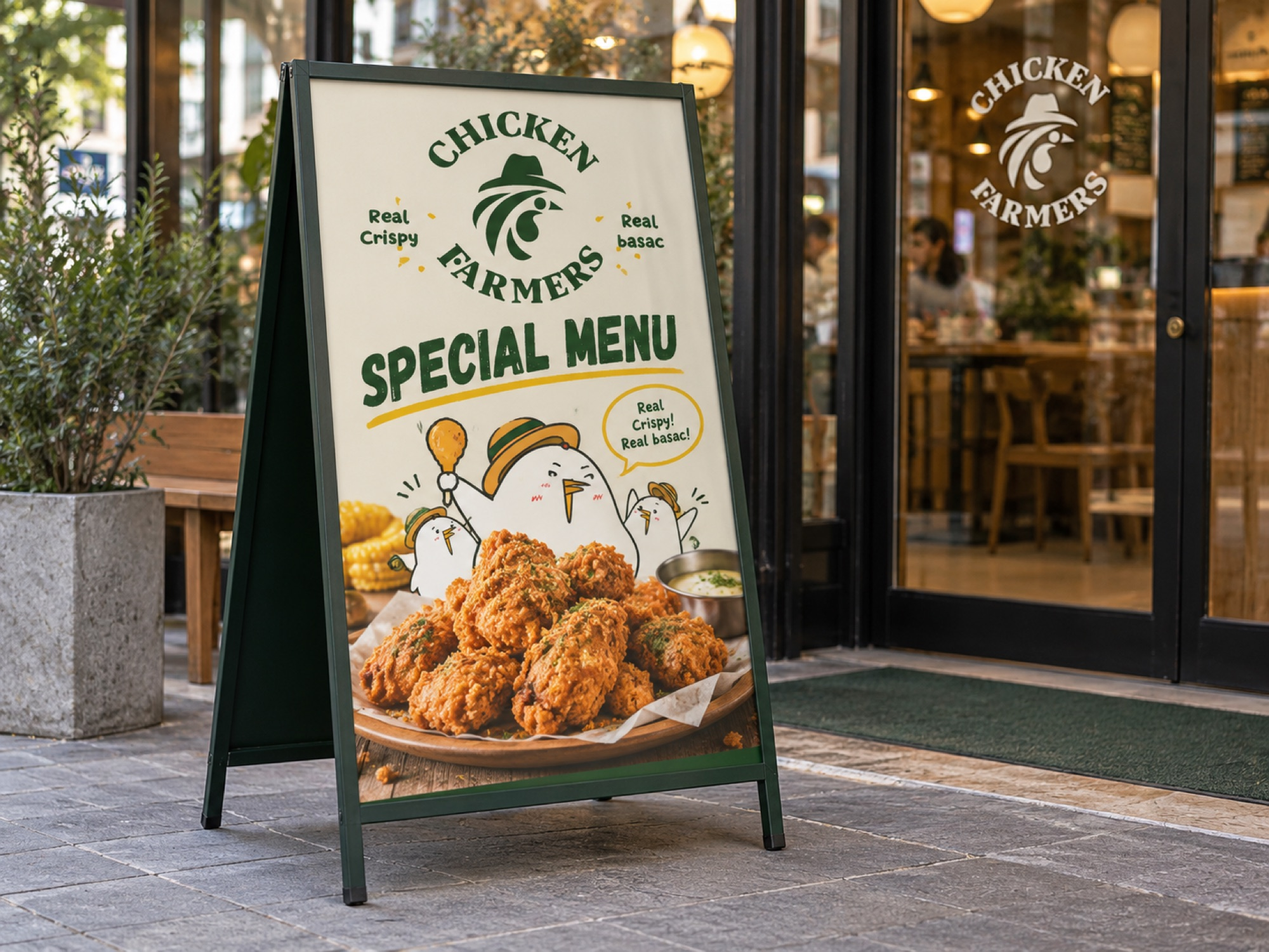
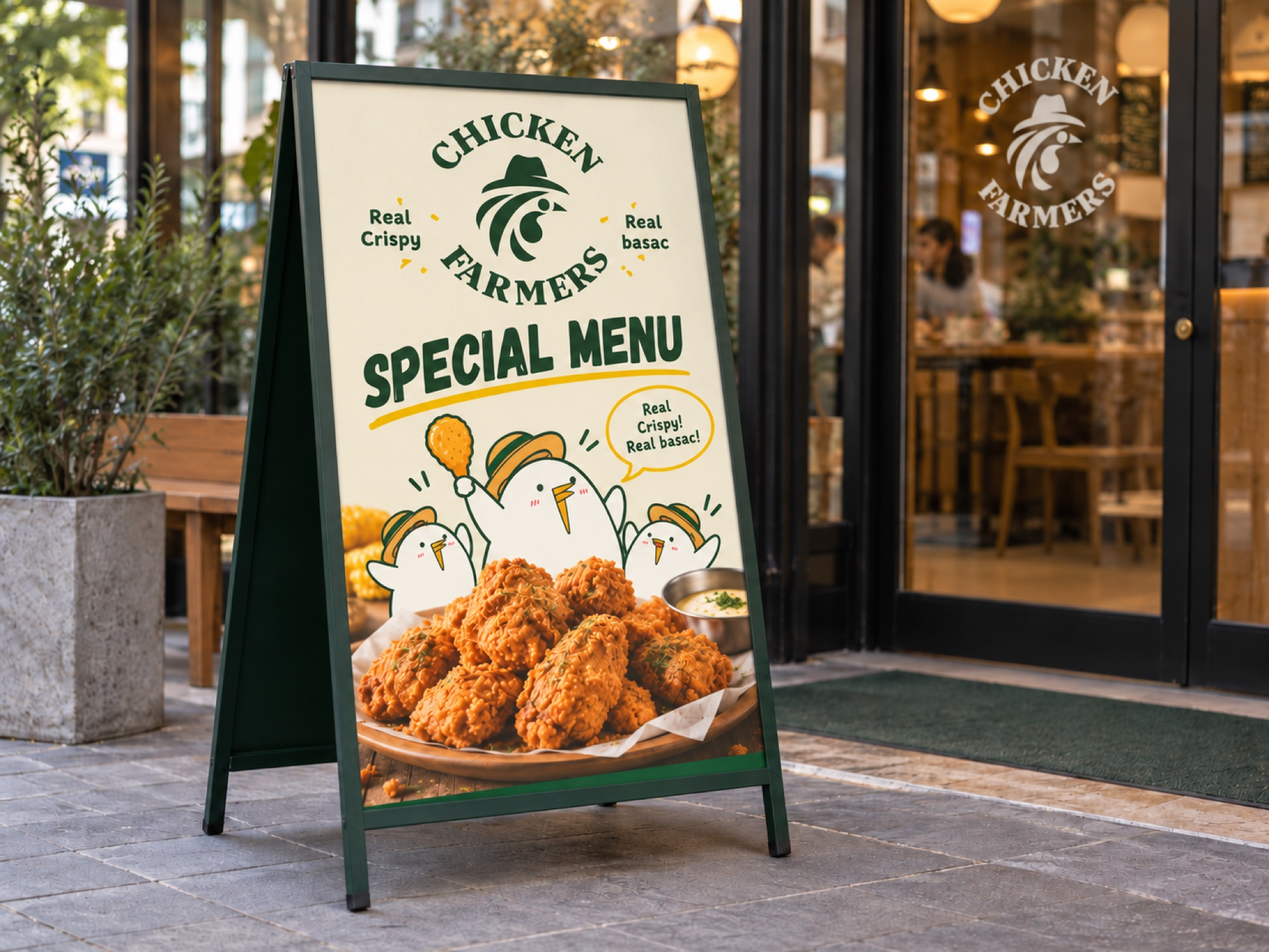
치킨파머스 브랜드가이드 컷 삭제·SPECIAL MENU 입간판 교체, 삼둥이 대표 사진 교체

diff --git a/chickenfarmers-graphic.html b/chickenfarmers-graphic.html
@@ -76,18 +76,17 @@
 
     <!-- 홈처럼 리듬 배치 -->
     <div class="g-flow">
-      <figure class="g-pc reveal"><img src="images/works/chickenfarmers/brand-guide.jpg" alt="치킨파머스 브랜드 가이드 로고 시스템"><figcaption class="g-cap">브랜드 가이드 / Brand Guide</figcaption></figure>
+      <figure class="g-pc reveal"><img src="images/works/chickenfarmers/box.jpg" alt="치킨파머스 포장 박스"><figcaption class="g-cap">포장 박스 / Package</figcaption></figure>
       <figure class="g-pc reveal"><img src="images/works/chickenfarmers/logo-concept.jpg" alt="치킨파머스 로고 콘셉트"><figcaption class="g-cap">로고 콘셉트 / Logo Concept</figcaption></figure>
       <figure class="g-pc reveal"><img src="images/works/chickenfarmers/mascot.jpg" alt="치킨파머스 마스코트 콘셉트"><figcaption class="g-cap">마스코트 콘셉트 / Mascot Concept</figcaption></figure>
-      <figure class="g-pc reveal"><img src="images/works/chickenfarmers/box.jpg" alt="치킨파머스 포장 박스"><figcaption class="g-cap">포장 박스 / Package</figcaption></figure>
+      <figure class="g-pc reveal"><img src="images/works/chickenfarmers/poster.jpg" alt="치킨파머스 메뉴 포스터"><figcaption class="g-cap">메뉴 포스터 / Poster</figcaption></figure>
       <figure class="g-pc reveal"><img src="images/works/chickenfarmers/bucket.jpg" alt="치킨파머스 치킨 버킷"><figcaption class="g-cap">치킨 버킷 / Bucket</figcaption></figure>
       <figure class="g-pc reveal"><img src="images/works/chickenfarmers/stamp.jpg" alt="치킨파머스 스탬프"><figcaption class="g-cap">스탬프 / Stamp</figcaption></figure>
-      <figure class="g-pc reveal"><img src="images/works/chickenfarmers/poster.jpg" alt="치킨파머스 메뉴 포스터"><figcaption class="g-cap">메뉴 포스터 / Poster</figcaption></figure>
+      <figure class="g-pc reveal"><img src="images/works/chickenfarmers/coaster.jpg" alt="치킨파머스 코스터"><figcaption class="g-cap">코스터 / Coaster</figcaption></figure>
       <figure class="g-pc reveal"><img src="images/works/chickenfarmers/mascot-final.jpg" alt="치킨파머스 마스코트"><figcaption class="g-cap">마스코트 / Mascot</figcaption></figure>
       <figure class="g-pc reveal"><img src="images/works/chickenfarmers/mascot-poses.jpg" alt="치킨파머스 마스코트 포즈"><figcaption class="g-cap">마스코트 포즈 / Mascot Poses</figcaption></figure>
-      <figure class="g-pc reveal"><img src="images/works/chickenfarmers/coaster.jpg" alt="치킨파머스 코스터"><figcaption class="g-cap">코스터 / Coaster</figcaption></figure>
+      <figure class="g-pc reveal"><img src="images/works/chickenfarmers/aframe.jpg" alt="치킨파머스 스페셜 메뉴 입간판"><figcaption class="g-cap">스페셜 메뉴 입간판 / A-frame</figcaption></figure>
       <figure class="g-pc reveal"><img src="images/works/chickenfarmers/banner.jpg" alt="치킨파머스 프로모션 배너"><figcaption class="g-cap">프로모션 배너 / Banner</figcaption></figure>
-      <figure class="g-pc reveal"><img src="images/works/chickenfarmers/aframe.jpg" alt="치킨파머스 스페셜 메뉴 입간판"><figcaption class="g-cap">입간판 / A-frame</figcaption></figure>
     </div>
 
     <div class="g-end">

diff --git a/brand.html b/brand.html
@@ -93,7 +93,7 @@
         <div class="w-tags"><span class="pill">Logo</span><span class="pill">Emblem</span><span class="pill">Mascot</span></div></div>
     </a>
     <a class="work reveal" href="/samdungine">
-      <div class="w-ph"><img src="images/works/samdungine/package.jpg" alt="삼둥이네 푸줏간"></div>
+      <div class="w-ph"><img src="images/works/samdungine/facade.jpg" alt="삼둥이네 푸줏간"></div>
       <div class="w-cap"><span class="w-nm">삼둥이네 푸줏간</span>
         <div class="w-tags"><span class="pill">Logo</span><span class="pill">Package</span><span class="pill">Card</span></div></div>
     </a>
